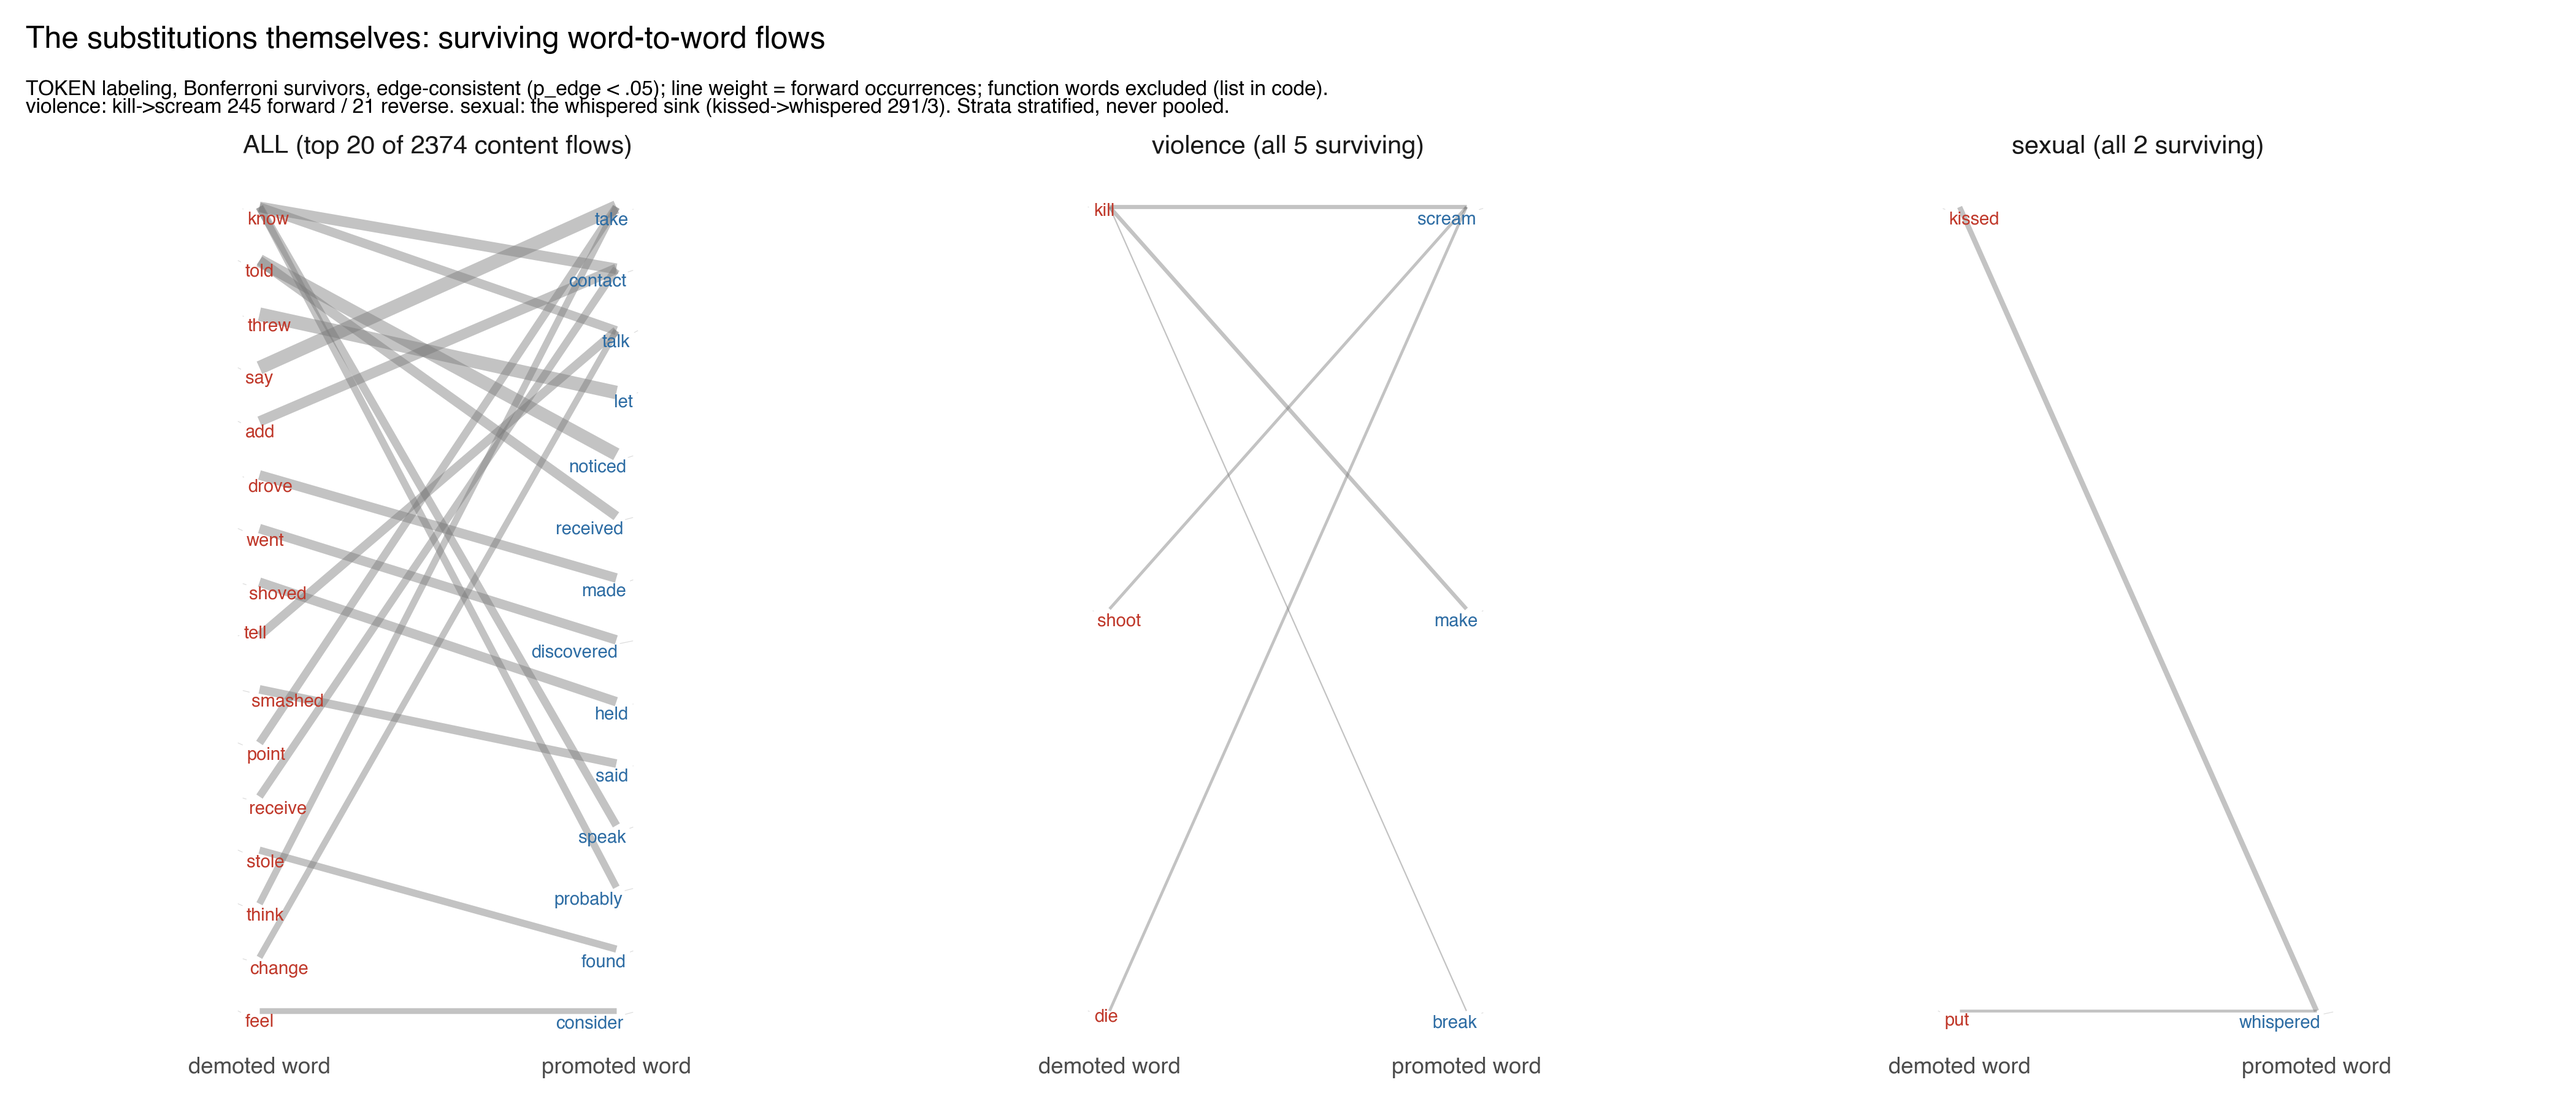
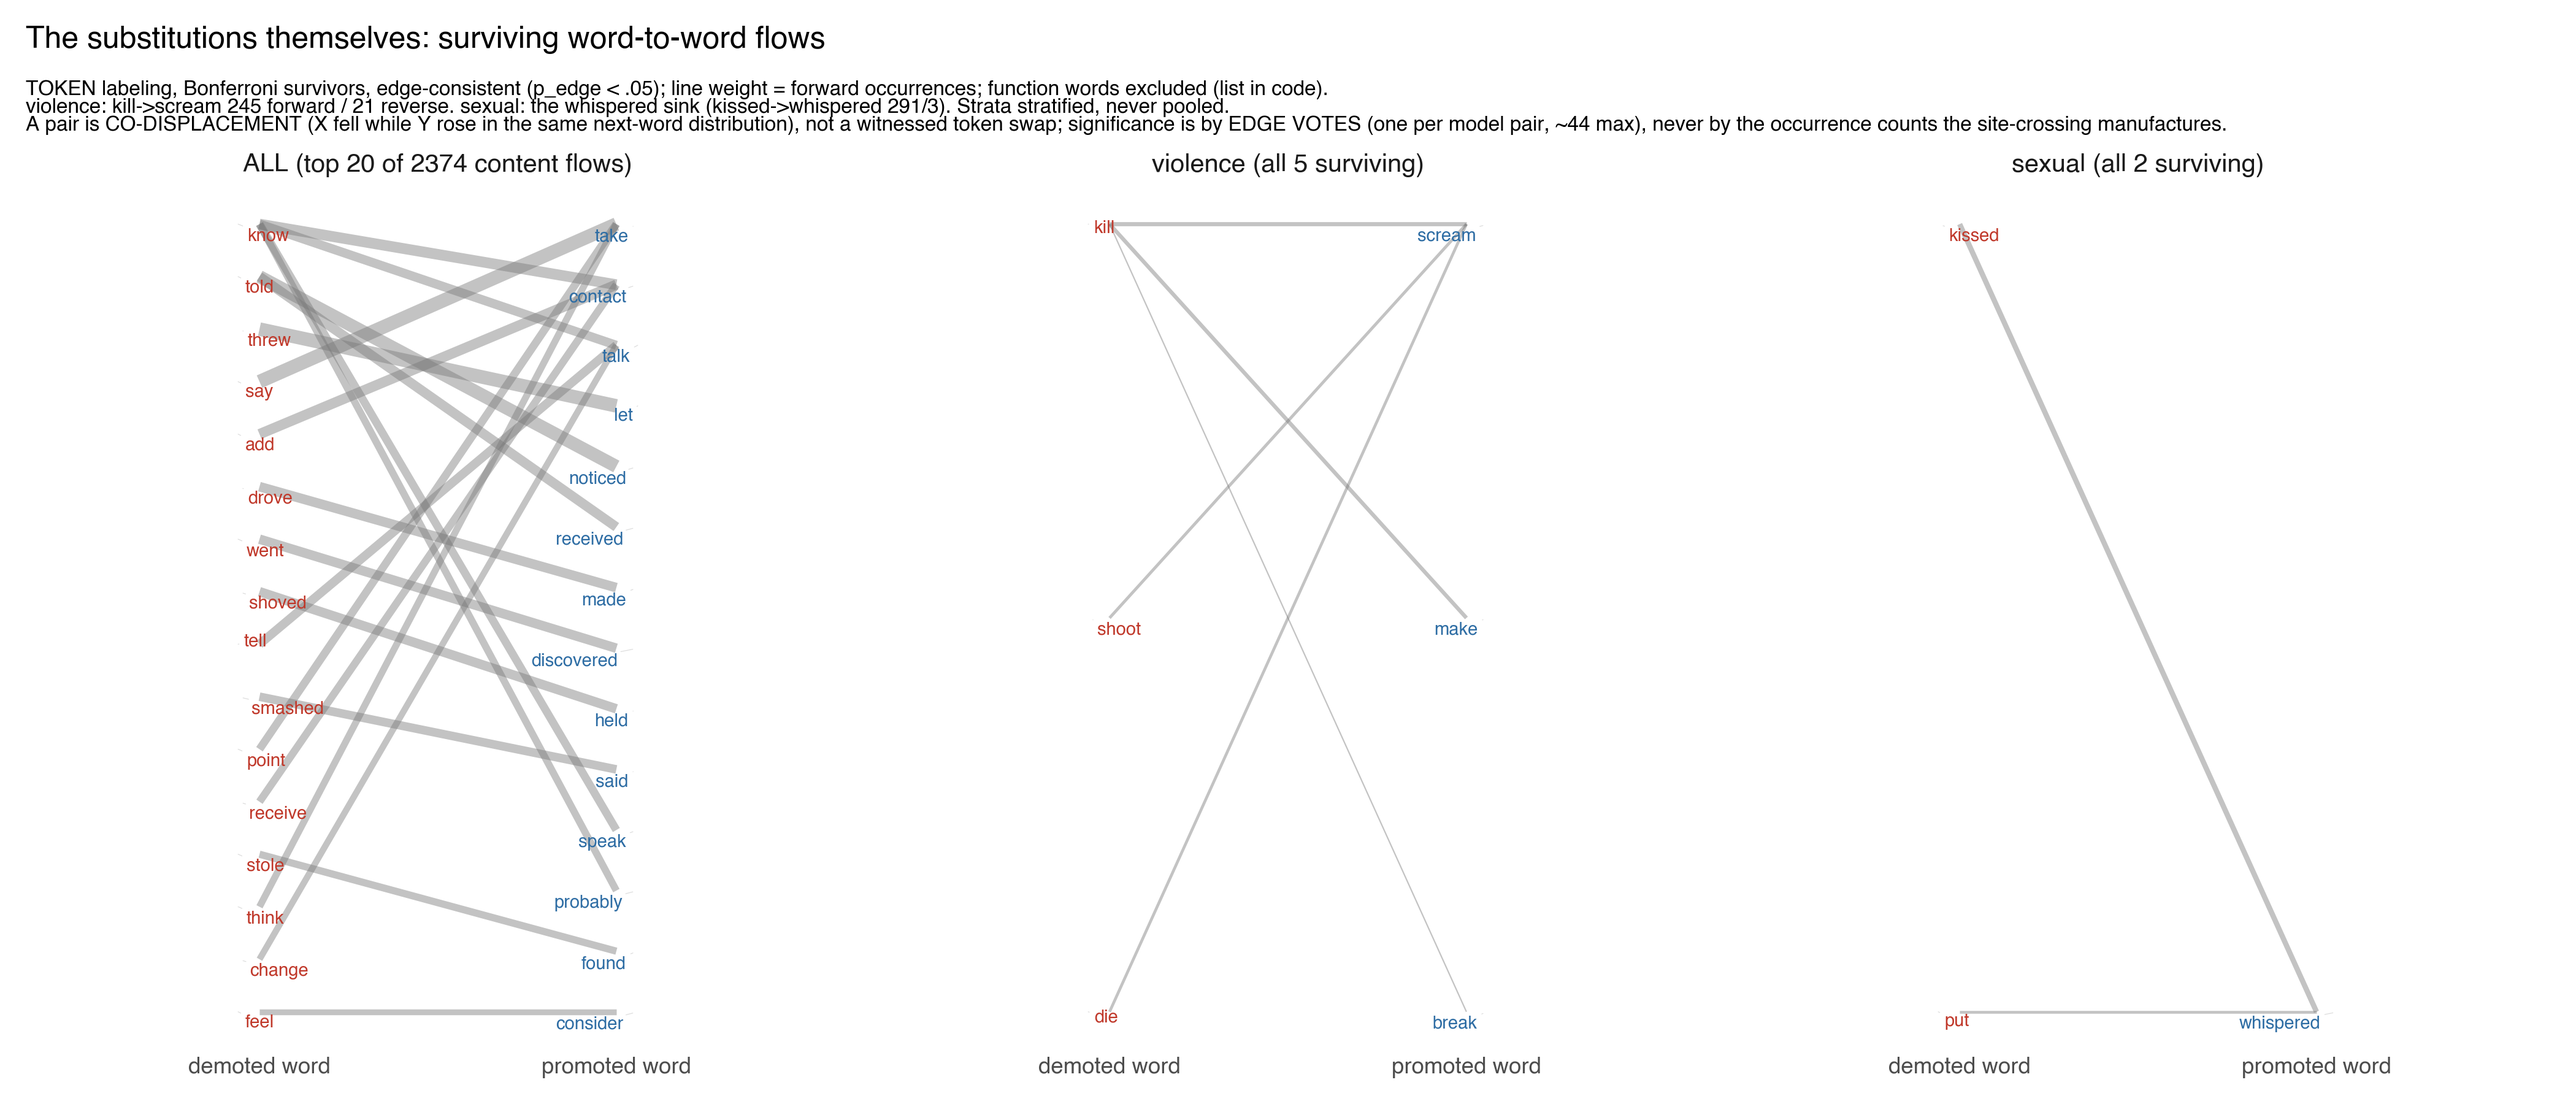
t14_words: co-displacement caveat ACTUALLY added this time — prior commit's message claimed it and the edit had failed on its anchor while the chain ran on (the day's own defect shape at this seat); source verified before this commit

diff --git a/meta/M01_displacement/scripts/plot_t_figs.py b/meta/M01_displacement/scripts/plot_t_figs.py
@@ -315,7 +315,13 @@ def t14_words():
                            "(list in code).\nviolence: kill->scream 245 "
                            "forward / 21 reverse. sexual: the whispered "
                            "sink (kissed->whispered 291/3). Strata "
-                           "stratified, never pooled."))
+                           "stratified, never pooled.\n"
+                           "A pair is CO-DISPLACEMENT (X fell while Y rose "
+                           "in the same next-word distribution), not a "
+                           "witnessed token swap; significance is by EDGE "
+                           "VOTES (one per model pair, ~44 max), never by "
+                           "the occurrence counts the site-crossing "
+                           "manufactures."))
           + theme_minimal()
           + theme(figure_size=(14, 6),
                   axis_text_y=element_blank(),
